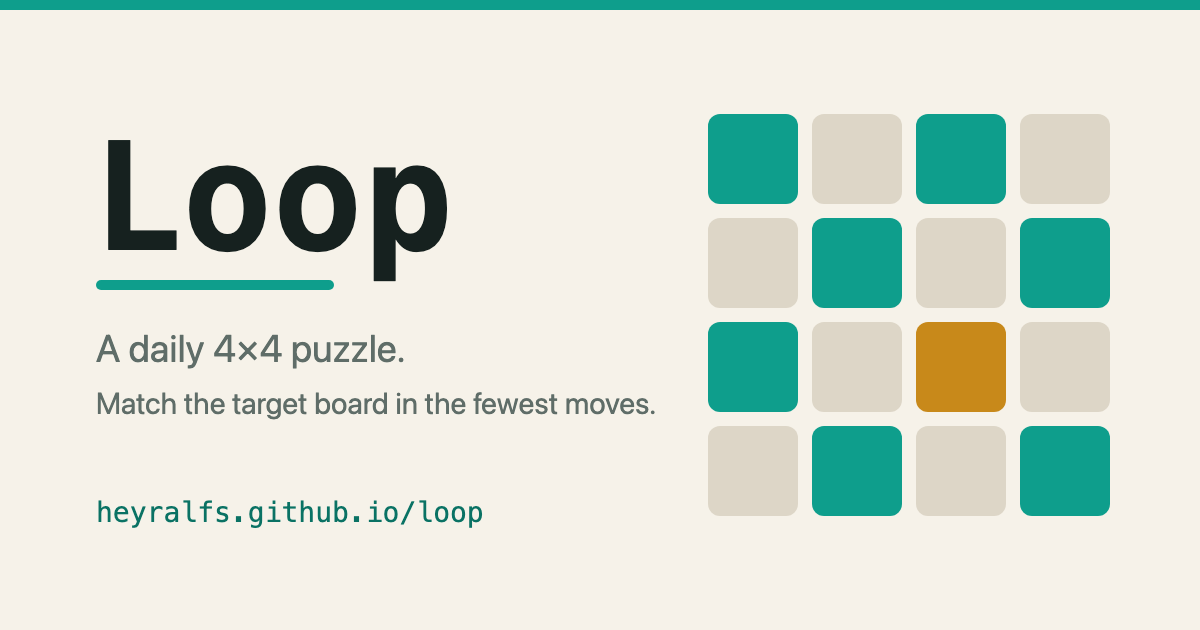
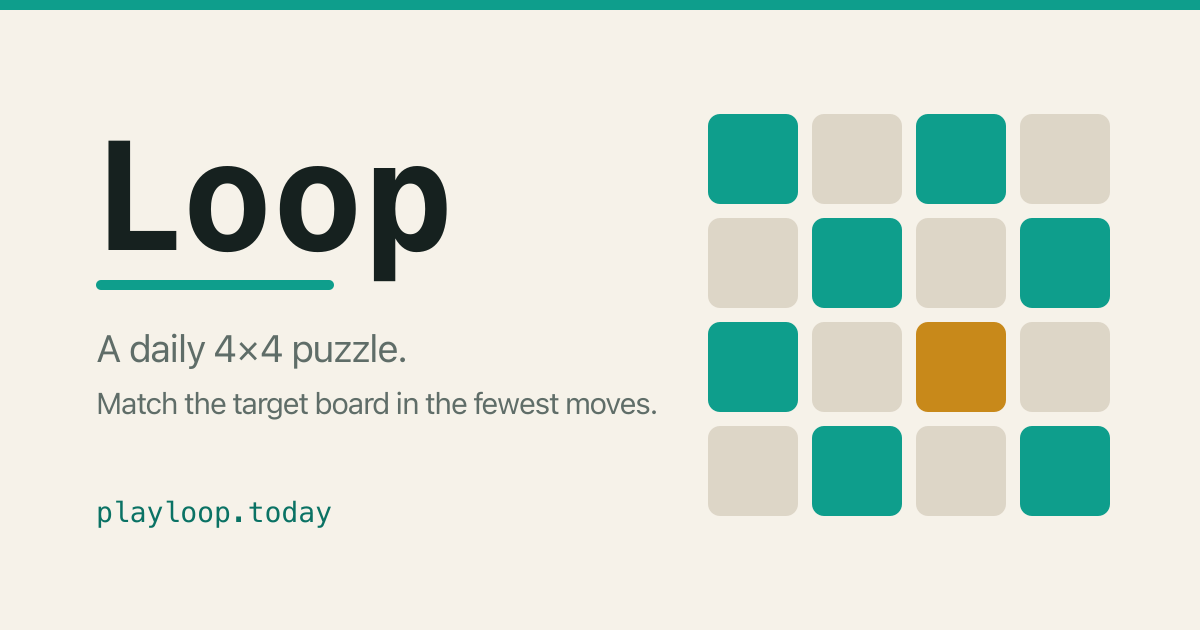
update readme + regenerate og-img

Changed region(s): [[0.0925, 0.7841, 0.4008, 0.8444], [0.0925, 0.6333, 0.555, 0.6635], [0.0925, 0.5429, 0.3392, 0.573]]

diff --git a/README.md b/README.md
@@ -6,7 +6,7 @@ A daily 4×4 puzzle. Shift individual rows and columns to turn the scrambled boa
 into the target — in as few moves as possible. One new puzzle for everyone, every
 day. No accounts, no backend.
 
-**▶ Play: [https://heyralfs.github.io/loop/](https://heyralfs.github.io/loop/?ref=github)**
+**▶ Play: [https://playloop.today/](https://playloop.today/?ref=github)**
 
 ## How to play
 
